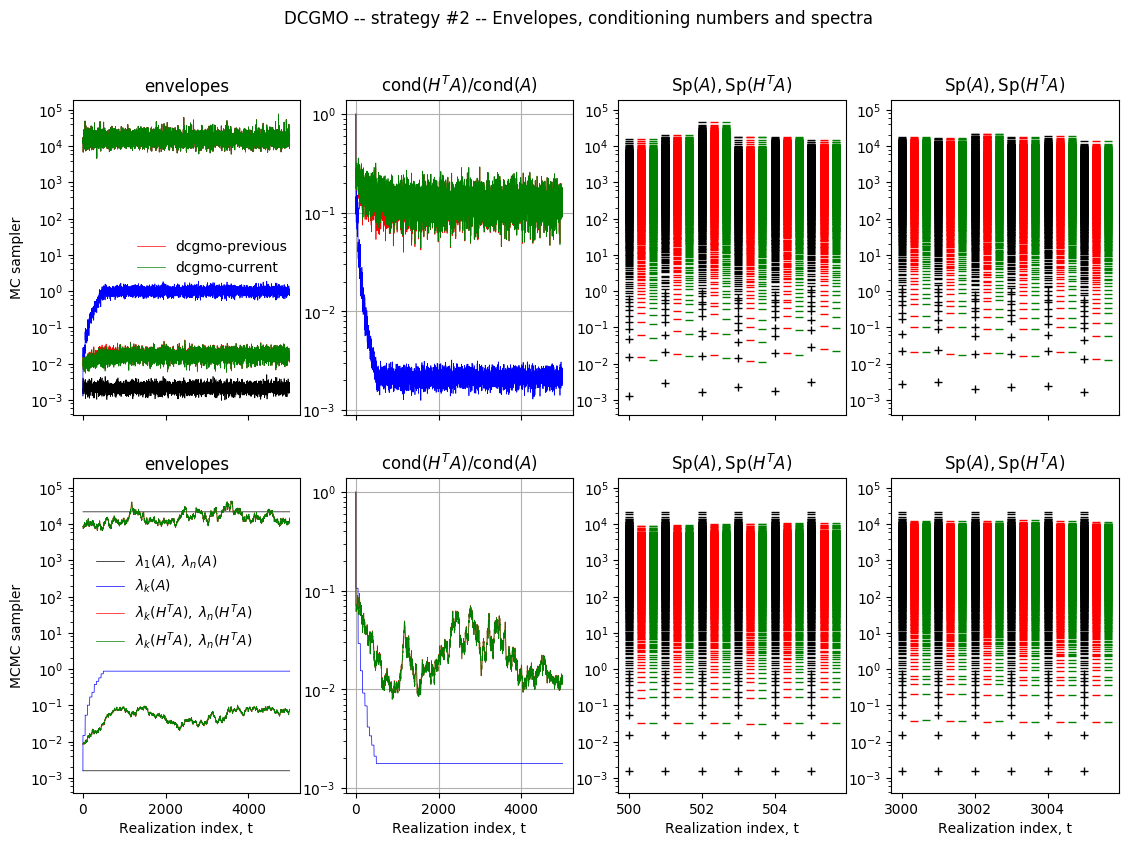
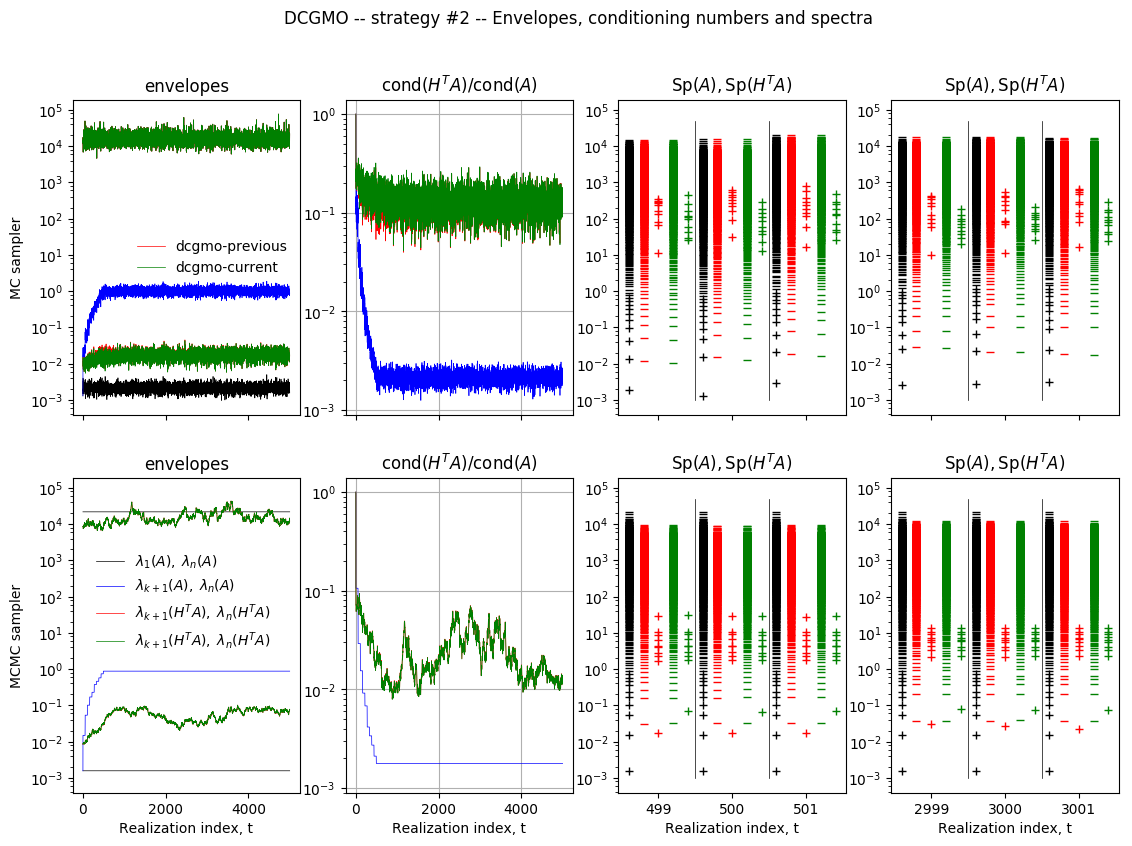
first-commit

diff --git a/examples/example05_recycler_plot.py b/examples/example05_recycler_plot.py
@@ -25,22 +25,24 @@ def get_envelopes_HtA(SpHtA, dcgmo_kdim):
   SpHtA_n = [Sp[-1] for Sp in SpHtA]
   return SpHtA_k, SpHtA_n
 
-def save_data(smp, smp_SpA, dcgmo_SpHtA, dcgmo_kdim, case):
+def save_data(smp, smp_SpA, dcgmo_SpHtA, dcgmo_kdim, dcgmo_eigvals, case):
   np.save(".example05_recycler_smp_"+case, smp)
   np.save(".example05_recycler_smp_SpA_"+case, smp_SpA)
   np.save(".example05_recycler_dcgmo_SpHtA_"+case, dcgmo_SpHtA)
   np.save(".example05_recycler_dcgmo_kdim_"+case, dcgmo_kdim)
+  np.save(".example05_recycler_dcgmo_eigvals_"+case, dcgmo_eigvals)
 
 def load_data(case):
     smp = np.load(".example05_recycler_smp_"+case+".npy").item()
     smp_SpA = np.load(".example05_recycler_smp_SpA_"+case+".npy").item()
     dcgmo_SpHtA = np.load(".example05_recycler_dcgmo_SpHtA_"+case+".npy").item()
     dcgmo_kdim = np.load(".example05_recycler_dcgmo_kdim_"+case+".npy").item()
-    return smp, smp_SpA, dcgmo_SpHtA, dcgmo_kdim
+    dcgmo_eigvals = np.load(".example05_recycler_dcgmo_eigvals_"+case+".npy").item()
+    return smp, smp_SpA, dcgmo_SpHtA, dcgmo_kdim, dcgmo_eigvals
 
-def plot(smp=None, smp_SpA=None, dcgmo_SpHtA=None, dcgmo_kdim=None, case=None):
+def plot(smp=None, smp_SpA=None, dcgmo_SpHtA=None, dcgmo_kdim=None, dcgmo_eigvals=None, case=None):
   if (type(smp) == type(None)):
-    smp, smp_SpA, dcgmo_SpHtA, dcgmo_kdim = load_data(case)
+    smp, smp_SpA, dcgmo_SpHtA, dcgmo_kdim, dcgmo_eigvals = load_data(case)
 
   n = smp["mc"].n
   fig, ax = pl.subplots(2, 4, figsize=(13.5,9), sharex="col")
@@ -72,20 +74,29 @@ def plot(smp=None, smp_SpA=None, dcgmo_SpHtA=None, dcgmo_kdim=None, case=None):
   ax[0,0].legend(frameon=False)
   # Snapshot #1
   ax[0,2].set_title(r"$\mathrm{Sp}(A), \mathrm{Sp}(H^TA)$")
-  for i in range(500,506):
+  for i in range(499,502):
     kdim = dcgmo_kdim[("mc", "previous", 0)][i]
-    ax[0,2].semilogy((n-kdim)*[i], smp_SpA["mc"][i][kdim:], "k_", markersize=6)
-    ax[0,2].semilogy(kdim*[i], smp_SpA["mc"][i][:kdim], "k+", markersize=6)
-    ax[0,2].semilogy((n-kdim)*[i+.33], dcgmo_SpHtA[("mc", "previous", 0)][i][kdim:], "r_", markersize=6)
-    ax[0,2].semilogy((n-kdim)*[i+.66], dcgmo_SpHtA[("mc", "current", 0)][i][kdim:], "g_", markersize=6)
+    ax[0,2].semilogy((n-kdim)*[i-.4], smp_SpA["mc"][i][kdim:], "k_", markersize=6)
+    ax[0,2].semilogy(kdim*[i-.4], smp_SpA["mc"][i][:kdim], "k+", markersize=6)
+    ax[0,2].semilogy((n-kdim)*[i-.2], dcgmo_SpHtA[("mc", "previous", 0)][i][kdim:], "r_", markersize=6)
+    ax[0,2].semilogy(kdim*[i], dcgmo_eigvals[("mc", "previous", 0)][i], "r+", markersize=6)
+    ax[0,2].semilogy((n-kdim)*[i+.2], dcgmo_SpHtA[("mc", "current", 0)][i][kdim:], "g_", markersize=6)
+    ax[0,2].semilogy(kdim*[i+.4], dcgmo_eigvals[("mc", "current", 0)][i], "g+", markersize=6)
+    if (i < 501):
+      ax[0,2].semilogy((i+.5,i+.5), (1e-3,5e4),"k", lw=lw)
+
   # Snapshot #2
   ax[0,3].set_title(r"$\mathrm{Sp}(A), \mathrm{Sp}(H^TA)$")
-  for i in range(3000,3006):
+  for i in range(2999,3002):
     kdim = dcgmo_kdim[("mc", "previous", 0)][i]
-    ax[0,3].semilogy((n-kdim)*[i], smp_SpA["mc"][i][kdim:], "k_", markersize=6)
-    ax[0,3].semilogy(kdim*[i], smp_SpA["mc"][i][:kdim], "k+", markersize=6)
-    ax[0,3].semilogy((n-kdim)*[i+.33], dcgmo_SpHtA[("mc", "previous", 0)][i][kdim:], "r_", markersize=6)
-    ax[0,3].semilogy((n-kdim)*[i+.66], dcgmo_SpHtA[("mc", "current", 0)][i][kdim:], "g_", markersize=6)
+    ax[0,3].semilogy((n-kdim)*[i-.4], smp_SpA["mc"][i][kdim:], "k_", markersize=6)
+    ax[0,3].semilogy(kdim*[i-.4], smp_SpA["mc"][i][:kdim], "k+", markersize=6)
+    ax[0,3].semilogy((n-kdim)*[i-.2], dcgmo_SpHtA[("mc", "previous", 0)][i][kdim:], "r_", markersize=6)
+    ax[0,3].semilogy(kdim*[i], dcgmo_eigvals[("mc", "previous", 0)][i], "r+", markersize=6)
+    ax[0,3].semilogy((n-kdim)*[i+.2], dcgmo_SpHtA[("mc", "current", 0)][i][kdim:], "g_", markersize=6)
+    ax[0,3].semilogy(kdim*[i+.4], dcgmo_eigvals[("mc", "current", 0)][i], "g+", markersize=6)
+    if (i < 3001):
+      ax[0,3].semilogy((i+.5,i+.5), (1e-3,5e4),"k", lw=lw)
   ax[0,2].set_ylim(ax[0,0].get_ylim()); ax[0,3].set_ylim(ax[0,0].get_ylim())  
 
   # Enveloppes
@@ -97,37 +108,45 @@ def plot(smp=None, smp_SpA=None, dcgmo_SpHtA=None, dcgmo_kdim=None, case=None):
   ax[1,1].set_title(r"$\mathrm{cond}(H^TA)/\mathrm{cond}(A)$")
   ax[1,1].semilogy(cond_HtA/cond_A, "b", lw=lw)
   ax[1,0].semilogy(SpA_0, "k", lw=lw, label=r"$\lambda_{1}(A),\;\lambda_{n}(A)$")
-  ax[1,0].semilogy(SpA_k, "b", lw=lw, label=r"$\lambda_{k}(A)$")
+  ax[1,0].semilogy(SpA_k, "b", lw=lw, label=r"$\lambda_{k+1}(A),\;\lambda_{n}(A)$")
   ax[1,0].semilogy(SpA_n, "k", lw=lw)
   _dcgmo = ("mcmc", "previous", 0)
   SpHtA_k, SpHtA_n = get_envelopes_HtA(dcgmo_SpHtA[_dcgmo], dcgmo_kdim[_dcgmo])
   cond_HtA = np.concatenate(([cond_A[0]],np.array(SpHtA_n[1:])/np.array(SpHtA_k[1:])))
-  ax[1,0].semilogy(SpHtA_k, "r", lw=lw, label=r"$\lambda_{k}(H^TA),\;\lambda_{n}(H^TA)$")
+  ax[1,0].semilogy(SpHtA_k, "r", lw=lw, label=r"$\lambda_{k+1}(H^TA),\;\lambda_{n}(H^TA)$")
   ax[1,0].semilogy(SpHtA_n, "r", lw=lw)
   ax[1,1].semilogy(cond_HtA/cond_A, "r", lw=lw)
   _dcgmo = ("mcmc", "current", 0)
   SpHtA_k, SpHtA_n = get_envelopes_HtA(dcgmo_SpHtA[_dcgmo], dcgmo_kdim[_dcgmo])
-  ax[1,0].semilogy(SpHtA_k, "g", lw=lw, label=r"$\lambda_{k}(H^TA),\;\lambda_{n}(H^TA)$")
+  ax[1,0].semilogy(SpHtA_k, "g", lw=lw, label=r"$\lambda_{k+1}(H^TA),\;\lambda_{n}(H^TA)$")
   ax[1,0].semilogy(SpHtA_n, "g", lw=lw)
   cond_HtA = np.concatenate(([cond_A[0]],np.array(SpHtA_n[1:])/np.array(SpHtA_k[1:])))
   ax[1,1].semilogy(cond_HtA/cond_A, "g", lw=lw)
   ax[1,0].legend(loc="upper left", bbox_to_anchor=(0.05, 0.8), frameon=False)
   # Snapshot #1
   ax[1,2].set_title(r"$\mathrm{Sp}(A), \mathrm{Sp}(H^TA)$")
-  for i in range(500,506):
+  for i in range(499,502):
     kdim = dcgmo_kdim[("mcmc", "previous", 0)][i]
-    ax[1,2].semilogy((n-kdim)*[i], smp_SpA["mcmc"][i][kdim:], "k_", markersize=6)
-    ax[1,2].semilogy(kdim*[i], smp_SpA["mcmc"][i][:kdim], "k+", markersize=6)
-    ax[1,2].semilogy((n-kdim)*[i+.33], dcgmo_SpHtA[("mcmc", "previous", 0)][i][kdim:], "r_", markersize=6)
-    ax[1,2].semilogy((n-kdim)*[i+.66], dcgmo_SpHtA[("mcmc", "current", 0)][i][kdim:], "g_", markersize=6)
+    ax[1,2].semilogy((n-kdim)*[i-.4], smp_SpA["mcmc"][i][kdim:], "k_", markersize=6)
+    ax[1,2].semilogy(kdim*[i-.4], smp_SpA["mcmc"][i][:kdim], "k+", markersize=6)
+    ax[1,2].semilogy((n-kdim)*[i-.2], dcgmo_SpHtA[("mcmc", "previous", 0)][i][kdim:], "r_", markersize=6)
+    ax[1,2].semilogy(kdim*[i], dcgmo_eigvals[("mcmc", "previous", 0)][i], "r+", markersize=6)
+    ax[1,2].semilogy((n-kdim)*[i+.2], dcgmo_SpHtA[("mcmc", "current", 0)][i][kdim:], "g_", markersize=6)
+    ax[1,2].semilogy(kdim*[i+.4], dcgmo_eigvals[("mcmc", "current", 0)][i], "g+", markersize=6)
+    if (i < 501):
+      ax[1,2].semilogy((i+.5,i+.5), (1e-3,5e4),"k", lw=lw)
   # Snapshot #2
   ax[1,3].set_title(r"$\mathrm{Sp}(A), \mathrm{Sp}(H^TA)$")
-  for i in range(3000,3006):
+  for i in range(2999,3002):
     kdim = dcgmo_kdim[("mcmc", "previous", 0)][i]
-    ax[1,3].semilogy((n-kdim)*[i], smp_SpA["mcmc"][i][kdim:], "k_", markersize=6)
-    ax[1,3].semilogy(kdim*[i], smp_SpA["mcmc"][i][:kdim], "k+", markersize=6)
-    ax[1,3].semilogy((n-kdim)*[i+.33], dcgmo_SpHtA[("mcmc", "previous", 0)][i][kdim:], "r_", markersize=6)
-    ax[1,3].semilogy((n-kdim)*[i+.66], dcgmo_SpHtA[("mcmc", "current", 0)][i][kdim:], "g_", markersize=6)
+    ax[1,3].semilogy((n-kdim)*[i-.4], smp_SpA["mcmc"][i][kdim:], "k_", markersize=6)
+    ax[1,3].semilogy(kdim*[i-.4], smp_SpA["mcmc"][i][:kdim], "k+", markersize=6)
+    ax[1,3].semilogy((n-kdim)*[i-.2], dcgmo_SpHtA[("mcmc", "previous", 0)][i][kdim:], "r_", markersize=6)
+    ax[1,3].semilogy(kdim*[i], dcgmo_eigvals[("mcmc", "previous", 0)][i], "r+", markersize=6)
+    ax[1,3].semilogy((n-kdim)*[i+.2], dcgmo_SpHtA[("mcmc", "current", 0)][i][kdim:], "g_", markersize=6)
+    ax[1,3].semilogy(kdim*[i+.4], dcgmo_eigvals[("mcmc", "current", 0)][i], "g+", markersize=6)
+    if (i < 3001):
+      ax[1,3].semilogy((i+.5,i+.5), (1e-3,5e4),"k", lw=lw)
   ax[1,0].set_ylim(ax[0,0].get_ylim()); ax[1,2].set_ylim(ax[0,0].get_ylim()); ax[1,3].set_ylim(ax[0,0].get_ylim())
   #ax[0,1].set_ylim(1e-3,1)
   ylim0 = ax[0,1].get_ylim(); ylim1 = ax[1,1].get_ylim()

diff --git a/examples/example05_recycler.py b/examples/example05_recycler.py
@@ -48,7 +48,7 @@ for __smp in ("mc", "mcmc"):
                                                t_end_kl=t_end_kl[_kl_strategy], ell_min=ell_min)
 
 cgmo_it = {"mc":[], "mcmc":[]}
-dcgmo_it, dcgmo_kdim, dcgmo_ell = {}, {}, {}
+dcgmo_it, dcgmo_kdim, dcgmo_ell, dcgmo_approx_eigvals = {}, {}, {}, {}
 smp_SpA, dcgmo_SpHtA = {"mc":[], "mcmc":[]}, {}
 
 for i_smp in range(nsmp):
@@ -63,7 +63,7 @@ for i_smp in range(nsmp):
 
       if not (dcgmo_SpHtA.has_key(_dcgmo)):
         dcgmo_SpHtA[_dcgmo] = []
-        dcgmo_kdim[_dcgmo], dcgmo_ell[_dcgmo] = [], []
+        dcgmo_kdim[_dcgmo], dcgmo_ell[_dcgmo], dcgmo_approx_eigvals[_dcgmo] = [], [], []
         dcgmo_it[_dcgmo] = []
 
       dcgmo[_dcgmo].do_assembly()
@@ -75,8 +75,10 @@ for i_smp in range(nsmp):
       if (dcgmo_kdim[_dcgmo][-1] > 0):
         HtA = dcgmo[_dcgmo].solver.get_deflated_op()
         dcgmo_SpHtA[_dcgmo] += [np.linalg.eigvalsh(HtA.A)]
+        dcgmo_approx_eigvals[_dcgmo] += [np.copy(dcgmo[_dcgmo].eigvals)]
       else:
         dcgmo_SpHtA[_dcgmo] += [np.array(smp["mc"].n*[None])]
+        dcgmo_approx_eigvals[_dcgmo] += [None]
 
       dcgmo[_dcgmo].solve()
       dcgmo_it[_dcgmo] = [dcgmo[_dcgmo].solver.it]
@@ -96,7 +98,7 @@ while (smp["mcmc"].cnt_accepted_proposals <= nsmp):
 
         if not (dcgmo_SpHtA.has_key(_dcgmo)):
           dcgmo_SpHtA[_dcgmo] = []
-          dcgmo_kdim[_dcgmo], dcgmo_ell[_dcgmo] = [], []
+          dcgmo_kdim[_dcgmo], dcgmo_ell[_dcgmo], dcgmo_approx_eigvals[_dcgmo] = [], [], []
           dcgmo_it[_dcgmo] = []
 
         dcgmo[_dcgmo].do_assembly()
@@ -111,10 +113,12 @@ while (smp["mcmc"].cnt_accepted_proposals <= nsmp):
         if (dcgmo_kdim[_dcgmo][-1] > 0):
           HtA = dcgmo[_dcgmo].solver.get_deflated_op()
           dcgmo_SpHtA[_dcgmo] += [np.linalg.eigvalsh(HtA.A)]
+          dcgmo_approx_eigvals[_dcgmo] += [np.copy(dcgmo[_dcgmo].eigvals)]
         else:
           dcgmo_SpHtA[_dcgmo] += [np.array(smp["mcmc"].n*[None])]
+          dcgmo_approx_eigvals[_dcgmo] += [None]
 
     print("%d/%d" %(smp["mcmc"].cnt_accepted_proposals+1, nsmp))
 
-save_data(smp, smp_SpA, dcgmo_SpHtA, dcgmo_kdim, case)
+save_data(smp, smp_SpA, dcgmo_SpHtA, dcgmo_kdim, dcgmo_approx_eigvals, case)
 plot(case=case)

diff --git a/recyclers.py b/recyclers.py
@@ -94,9 +94,10 @@ class recycler:
 
   def __approx_eigvecs(self, G, F, new_kdim):
     if (self.approx == "HR"):
-      _, eigvecs = scipy.linalg.eigh(G, F, eigvals=(0, new_kdim-1))
+      eigvals, eigvecs = scipy.linalg.eigh(G, F, eigvals=(0, new_kdim-1))
     elif (self.approx == "RR"):
-      _, eigvecs = scipy.linalg.eigh(G, F, eigvals=(self.solver.kdim+self.solver.ell-new_kdim, self.solver.kdim+self.solver.ell-1))
+      eigvals, eigvecs = scipy.linalg.eigh(G, F, eigvals=(self.solver.kdim+self.solver.ell-new_kdim, self.solver.kdim+self.solver.ell-1))
+    self.eigvals = eigvals
     
     if (self.solver.kdim > 0) & (self.solver.ell >0):
       self.solver.W = self.solver.W.dot(eigvecs[:self.solver.kdim,:]) \

diff --git a/README.tex.md b/README.tex.md
@@ -618,7 +618,7 @@ while (smp["mcmc"].cnt_accepted_proposals <= nsmp):
     print("%d/%d" %(smp["mcmc"].cnt_accepted_proposals+1, nsmp))
  
 save_data(smp, smp_SpA, dcgmo_SpHtA, dcgmo_kdim, case)
-plot(case=case) 
+plot(case=case)
 ```
 
 Output :
